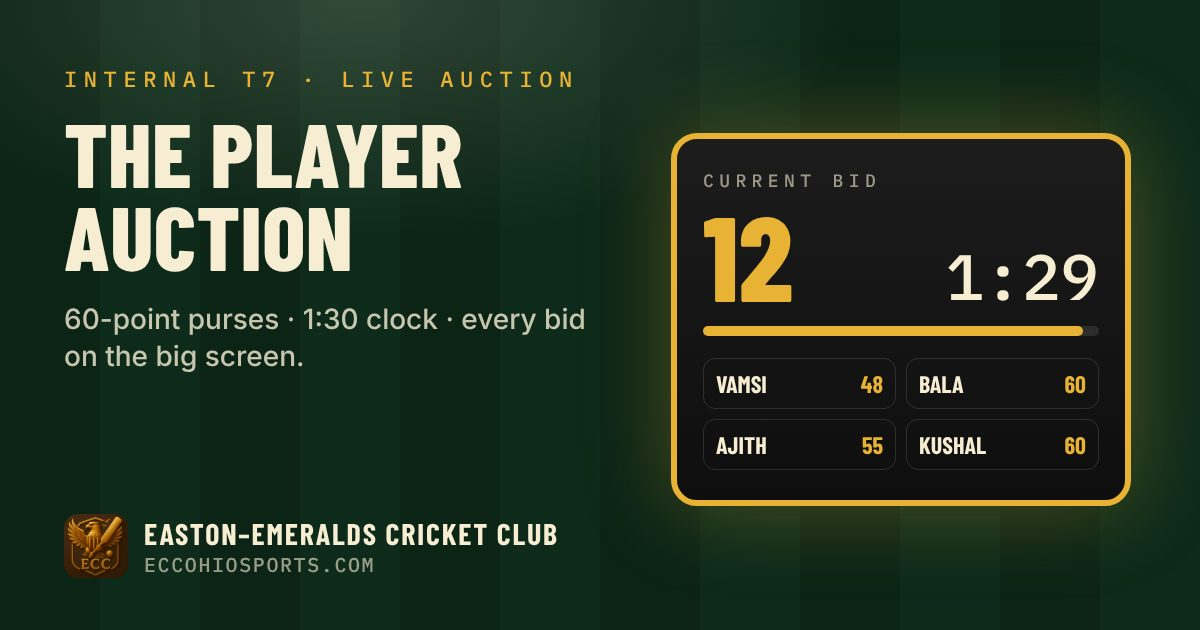
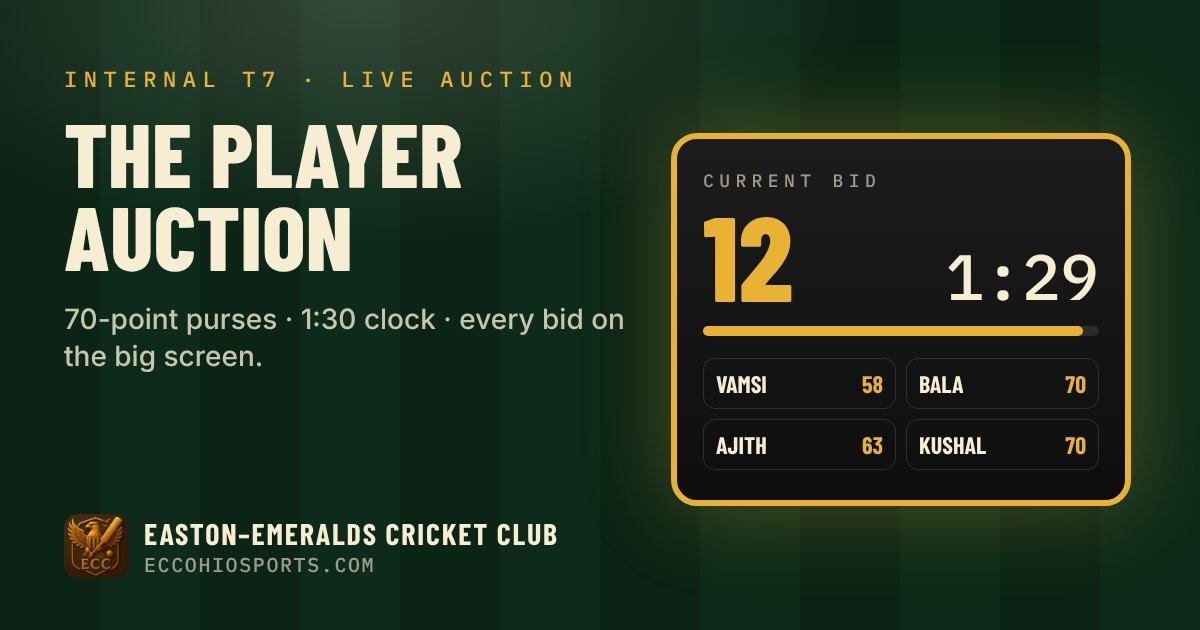
Internal T7: 8 players per team (captain + 7), 70 auction points
Claude-Session: https://claude.ai/code/session_01C5FGfBoDUEW2zQ55n4sc3M

diff --git a/ecc-website/src/data/internalTournament.js b/ecc-website/src/data/internalTournament.js
@@ -13,9 +13,9 @@ export const internalTournament = {
   dateNote: "Final date to be confirmed",
   dateOptions: ["Sat Oct 31", "Sun Nov 1", "Either day"],
   format: "T7",
-  playersPerTeam: 7,
-  playersToBuy: 6,
-  captainPoints: 60,
+  playersPerTeam: 8,
+  playersToBuy: 7,
+  captainPoints: 70,
   auctionClock: "1 min 30 sec",
   lateBidWindow: "last 10 seconds",
   extension: "30 sec",
@@ -37,7 +37,7 @@ export const tournamentSteps = [
   },
   {
     title: "Teams are set",
-    text: `The number of teams depends on how many people sign up, with ${t.playersPerTeam} players per team. For example, 70 sign-ups means 10 teams of ${t.playersPerTeam}.`,
+    text: `The number of teams depends on how many people sign up, with ${t.playersPerTeam} players per team. For example, ${10 * t.playersPerTeam} sign-ups means 10 teams of ${t.playersPerTeam}.`,
   },
   {
     title: "Captains by lottery",

diff --git a/ecc-website/src/data/pageMeta.js b/ecc-website/src/data/pageMeta.js
@@ -28,7 +28,7 @@ export const pageMeta = {
   },
   "/auction": {
     title: "The Player Auction · ECC Internal T7",
-    description: "Live player auction — 60-point purses, a 1:30 clock and every bid on the big screen.",
+    description: "Live player auction — 70-point purses, a 1:30 clock and every bid on the big screen.",
     image: img("auction"),
   },
   "/achievements": {
